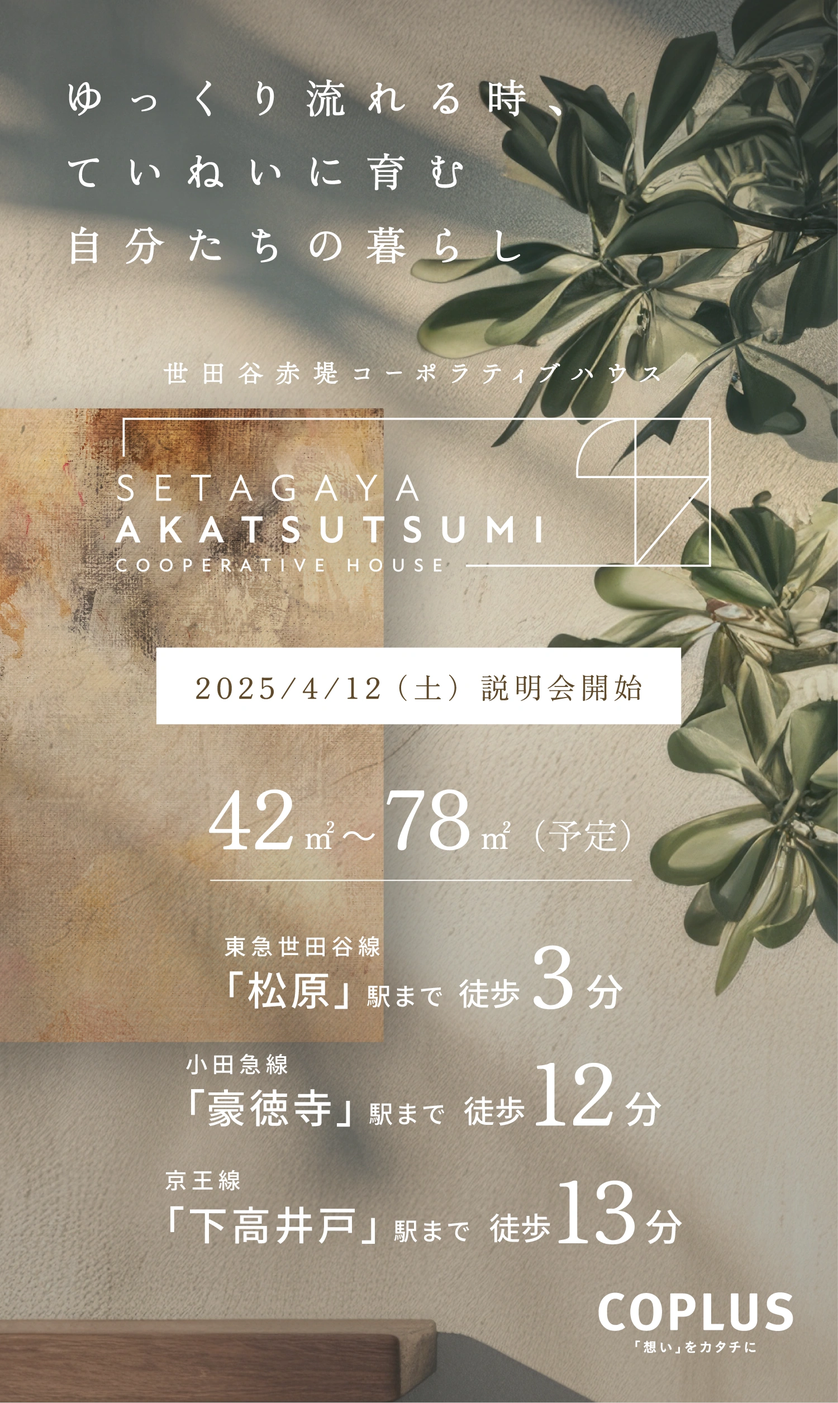
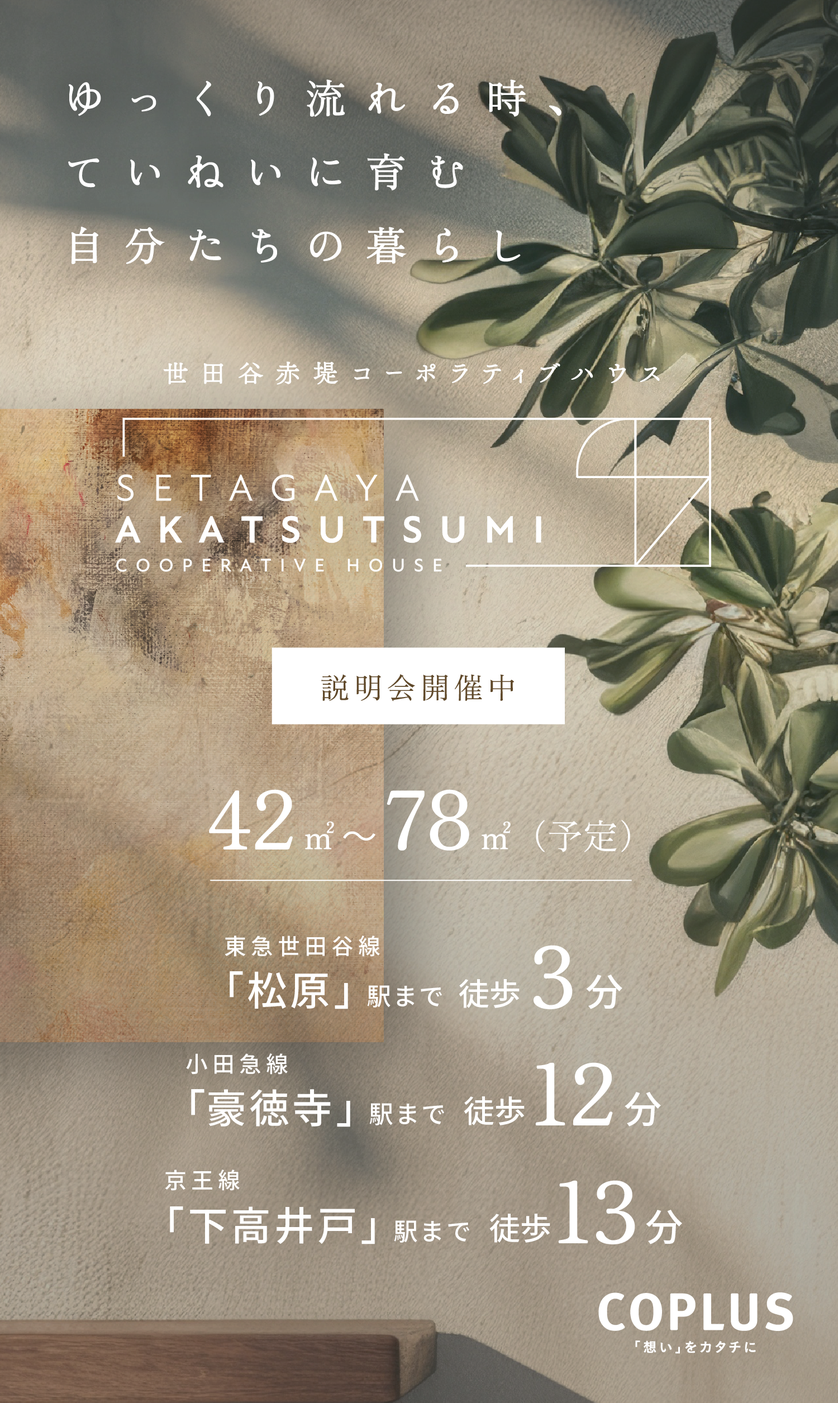
MV、説明会画像修正

diff --git a/setagayaakatsutsumi_ch/snippet/header.php b/setagayaakatsutsumi_ch/snippet/header.php
@@ -75,9 +75,9 @@ height="0" width="0" style="display:none;visibility:hidden"></iframe></noscript>
 				</picture>
 			</a>
 		</p>
-		<div class="cta-bnr hp_xl_none"><a href="http://campage.jp/cooperative/setagayaakatsutsumi_ch_surv?_fsi=8BN5Xy84&_gl=1*e6yuhf*_gcl_au*MTExNjY5MzkxNi4xNzM2OTExNDE0" target="_blank">最新情報メール<br>登録はこちら ></a></div>
+		<div class="cta-bnr hp_xl_none"><a href="https://campage.jp/cooperative/setagayaakatsutsumi_ch_setsummeikai_1" target="_blank">説明会予約は<br>こちら ></a></div>
 		<ul class="header__list hp_xl_max_none">
-			<li class="header__item is-contact"><a href="http://campage.jp/cooperative/setagayaakatsutsumi_ch_surv?_fsi=8BN5Xy84&_gl=1*e6yuhf*_gcl_au*MTExNjY5MzkxNi4xNzM2OTExNDE0" target="_blank">最新情報メール登録はこちら</a></li>
+			<li class="header__item is-contact"><a href="https://campage.jp/cooperative/setagayaakatsutsumi_ch_setsummeikai_1" target="_blank">説明会予約はこちら</a></li>
 			<li class="header__item is-instagram"><a href="https://www.instagram.com/coplus.arch/" target="_blank"><img src="<?php echo ASSETS_DIR; ?>img/common/icon_instagram.svg" alt="instagram" width="30" height="30"></a></li>
 			<li class="header__item is-facebook"><a href="https://business.facebook.com/COPLUS.inc" target="_blank"><img src="<?php echo ASSETS_DIR; ?>img/common/icon_facebook.svg" alt="facebook" width="30" height="30"></a></li>
 			<li class="header__item is-coplus"><a href="https://cooperativehouse.jp/" target="_blank"><img src="<?php echo ASSETS_DIR; ?>img/common/coplus_logo.svg" alt="coplus" width="94" height="19"></a></li>
@@ -94,7 +94,7 @@ height="0" width="0" style="display:none;visibility:hidden"></iframe></noscript>
 			</a>
 		</figure>
 		<div class="header__gnav-area">
-			<div class="cta-bnr hp_xl_none"><a href="http://campage.jp/cooperative/setagayaakatsutsumi_ch_surv?_fsi=8BN5Xy84&_gl=1*e6yuhf*_gcl_au*MTExNjY5MzkxNi4xNzM2OTExNDE0" target="_blank">最新情報メール<br>登録はこちら ></a></div>
+			<div class="cta-bnr hp_xl_none"><a href="https://campage.jp/cooperative/setagayaakatsutsumi_ch_setsummeikai_1" target="_blank">説明会予約は<br>こちら ></a></div>
 			<?php include(dirname(__FILE__)."/gnav.php"); ?>
 		</div>
 	</header>
